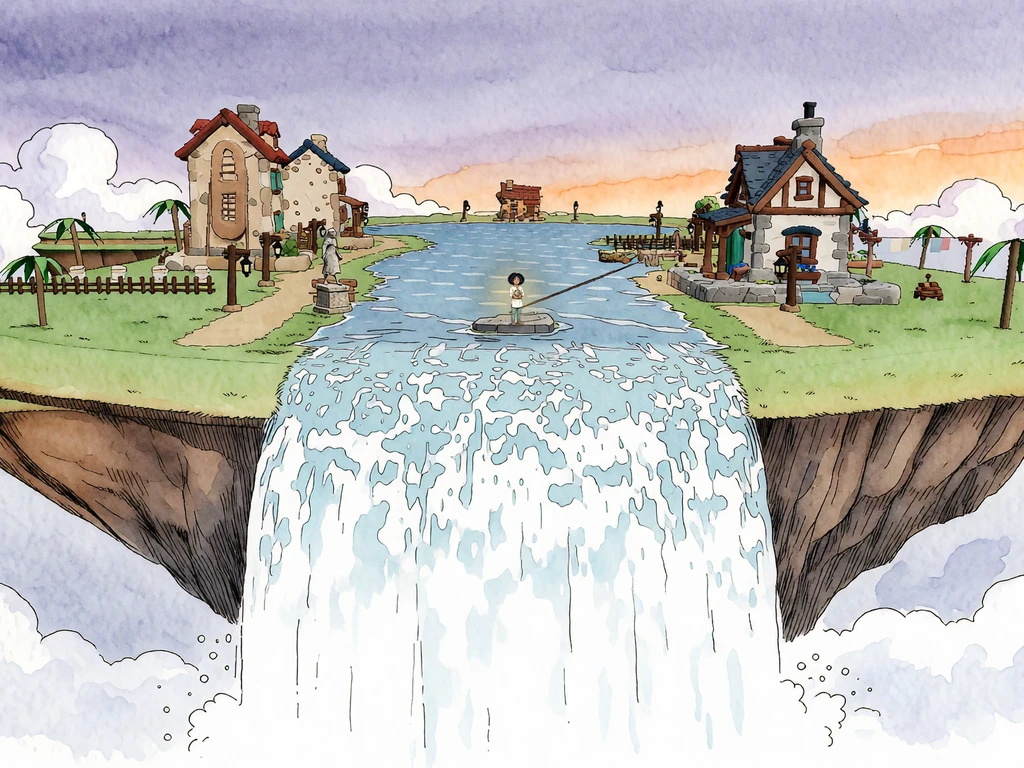
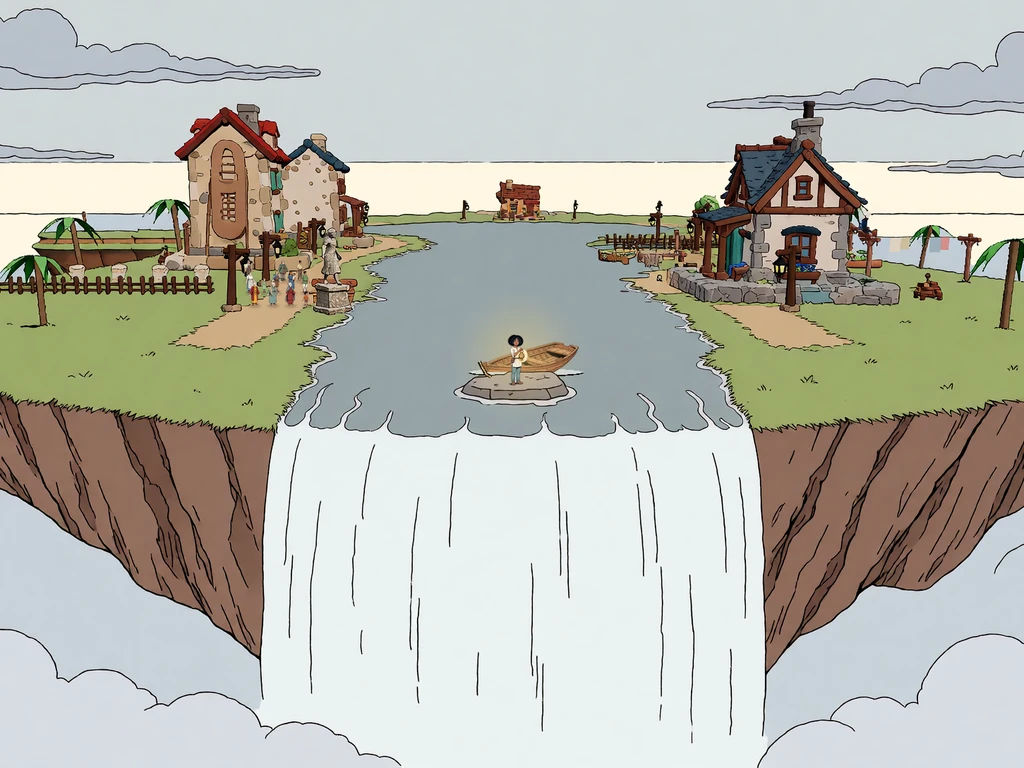
The Offering: picture 4 is the approved ink redraw of the falls (04-falls-final)
Claude-Session: https://claude.ai/code/session_01JTmPYBGE5RJi7qTbK5Qior

diff --git a/CREDITS.md b/CREDITS.md
@@ -30,7 +30,7 @@ subscription-only billing so no Spark was spent. Sources are in the project file
 | story/*.webp (run 1's ending and run 2's opening pictures) | Drafts from the cast and cutscene art threads (`production/story/slots/` and `production/story/v3/`, 2026-11-23), not yet approved by Ladi; converted to WebP |
 | story/kindling-underside.webp, story/kindling-heart-small.webp, story/kindling-heart-big.webp, story/kindling-hearts.webp, story/kindling-eye-glint.webp (run 1's ending: the home island from below in its horseshoe shape, both hearts down to embers; the two hearts lit as separate layers; the sky from below with home in its new shape, approved by Ladi at 11:46 AM, "Islands from below lgtm"; and home's one light among them, the 2026-11-23 glint trimmed tighter) | Painted by the cutscene thread on Sogni, 2026-11-24 (`sogni/lanternfall/production/story/v4/`), with krea2_identity_edit_v1_2 on the subscription, 0 Spark, plus its own code, as that thread reports; it says Ladi approved the underside that day and chose two hearts. ❓ That thread has not read the model's licence terms, the same caveat as the run 8 stills. Converted to WebP, same size (1536 square) | Run 1's ending, over the rim and down the underside: the small heart under the Kindling ground lights first, then the big one at the tip; then the islands from below, home's light as bright as the score |
 | story/walk-kitchen.webp (Rook's kitchen, walk 2) | The cutscene art thread's picture (`production/story/part1/kitchen/kitchen-tappable-walk2-draft-3.png`, 2026-11-24), the lantern with its approved hook handle; that thread reports Ladi's "Yes" at 11:47 AM on 2026-11-24 as covering it. ❓ It has not read the model's licence terms, the same caveat as its other pictures. Converted to WebP at 1280 px |
-| story/gt-*.webp (the glow test before run 6, seven wide pictures with two light layers), story/dream-*.webp (the dream before run 1, eight pictures), story/skiff-*.webp (the skiff coming in at sunset and leaving the next morning, 4-5, redrawn from the personas on Ladi's notes in `production/story/part1/skiff-home/final-3/` (the arrival) and `final-2/` (leaving); the first set's three are no longer used), story/sendoff-*.webp (the beacon and the send-off, 8-9b, thirteen pictures), story/handoff-*.webp (before the stranger's ship, 9-10, eight pictures; picture 4, the ferryman calling, replaced on 2026-11-26 by story row S4, `production/story/runs9-10/s4-over-here-l.png`, approved by Ladi, cropped to 4:3 by the cutscene thread, the crop not seen by Ladi), story/offering-*.webp (the Offering, 11, 25 pictures, rebuilt from the game's own island in `production/story/offering/final-2/`; the first draft is no longer used; pictures 4 and 7 replaced on 2026-11-25 by the third set, `stills-v3/04-falls-wide-a` and `07-lumi-turns-f`, cropped to 4:3 and approved by Ladi; picture 1 replaced on 2026-11-26 by `stills-v3/01-landing-final` and picture 3 by `stills-v3/03-tip-final-2` (Lumi and the boat added on Ladi's word), both approved by Ladi, cropped to 4:3 by the cutscene thread, the crops not seen by Ladi) and story/hands-*.webp (Hesta's hands at night and the morning after, 7-8b, four pictures and a shake layer) | The cutscene art thread's final sets (`production/story/part1/glowtest/final/`, `production/story/dream/final/`, `production/story/part1/skiff-home/final/`, `production/story/part1/send-off/final/`, `production/story/handoff-9-10/final/`, `production/story/offering/final/` and `production/story/part1/hands/final/`, 2026-11-25), drawn on Sogni on the subscription as that thread reports, 0 Spark. Glow test: six pictures approved by Ladi on 23 and 24 Nov; gt-5-rook-proud is that thread's pick, not seen by Ladi. Dream: all eight are that thread's picks; Ladi saw the rough storyboard only. Skiff home, send-off, hands, the pictures before the ship and the Offering: that thread's picks, not seen by Ladi. ❓ That thread has not read the model's licence terms, the same caveat as its other pictures. Converted to WebP (glow test 1920x1080, dream 1024x768) | Part 1's held-picture scenes 0, 4-5, 5-6b, 7-8b, 8-9b, 9-10 and 11 (`src/client/part1.ts` DREAM, HELD and GLOW) |
+| story/gt-*.webp (the glow test before run 6, seven wide pictures with two light layers), story/dream-*.webp (the dream before run 1, eight pictures), story/skiff-*.webp (the skiff coming in at sunset and leaving the next morning, 4-5, redrawn from the personas on Ladi's notes in `production/story/part1/skiff-home/final-3/` (the arrival) and `final-2/` (leaving); the first set's three are no longer used), story/sendoff-*.webp (the beacon and the send-off, 8-9b, thirteen pictures), story/handoff-*.webp (before the stranger's ship, 9-10, eight pictures; picture 4, the ferryman calling, replaced on 2026-11-26 by story row S4, `production/story/runs9-10/s4-over-here-l.png`, approved by Ladi, cropped to 4:3 by the cutscene thread, the crop not seen by Ladi), story/offering-*.webp (the Offering, 11, 25 pictures, rebuilt from the game's own island in `production/story/offering/final-2/`; the first draft is no longer used; pictures 4 and 7 replaced on 2026-11-25 by the third set, `stills-v3/04-falls-wide-a` and `07-lumi-turns-f`, cropped to 4:3 and approved by Ladi; picture 4 replaced again on 2026-11-26 by the ink redraw `stills-v3/04-falls-final`, approved by Ladi, the crop the cutscene thread's; picture 1 replaced on 2026-11-26 by `stills-v3/01-landing-final` and picture 3 by `stills-v3/03-tip-final-2` (Lumi and the boat added on Ladi's word), both approved by Ladi, cropped to 4:3 by the cutscene thread, the crops not seen by Ladi) and story/hands-*.webp (Hesta's hands at night and the morning after, 7-8b, four pictures and a shake layer) | The cutscene art thread's final sets (`production/story/part1/glowtest/final/`, `production/story/dream/final/`, `production/story/part1/skiff-home/final/`, `production/story/part1/send-off/final/`, `production/story/handoff-9-10/final/`, `production/story/offering/final/` and `production/story/part1/hands/final/`, 2026-11-25), drawn on Sogni on the subscription as that thread reports, 0 Spark. Glow test: six pictures approved by Ladi on 23 and 24 Nov; gt-5-rook-proud is that thread's pick, not seen by Ladi. Dream: all eight are that thread's picks; Ladi saw the rough storyboard only. Skiff home, send-off, hands, the pictures before the ship and the Offering: that thread's picks, not seen by Ladi. ❓ That thread has not read the model's licence terms, the same caveat as its other pictures. Converted to WebP (glow test 1920x1080, dream 1024x768) | Part 1's held-picture scenes 0, 4-5, 5-6b, 7-8b, 8-9b, 9-10 and 11 (`src/client/part1.ts` DREAM, HELD and GLOW) |
 | faces/kes-{alarmed,bereft}.webp, faces/grandmother-{steady,soft,talking}.webp, faces/grandfather-neutral.webp (run 9) | Bubble faces from the cast art thread (project files `sogni/lanternfall/production/bubble-faces/`, 2026-11-24), 160 px WebP as delivered. Placeholders: the grandparents' look is a first draft Ladi has not approved, and Kes's two are being re-framed | Bark bubbles and the talk box in run 9; which face goes with which line is in `src/engine/moods.ts` |
 | models/low-house-{a,b,c}.glb, models/rescue-boat.glb, models/kes-drop.glb, models/cold-brazier.glb (run 9) | Draft 1 from the maps thread (project files `sogni/lanternfall/production/places/low-one/`, 2026-11-25): concepts by Sogni AI z_image_turbo_bf16, 3D by Sogni AI pixal3d_int8_i23d, slimmed and re-baked there; the boat's lamp post is procedural | The low one in run 9, in place of the block-outs (`src/client/rescue-dress.ts`) |
 | faces/lumi-delight-flash.webp | First draft from the cast art thread; Lumi's one open-mouth face in runs 1 and 2 |
